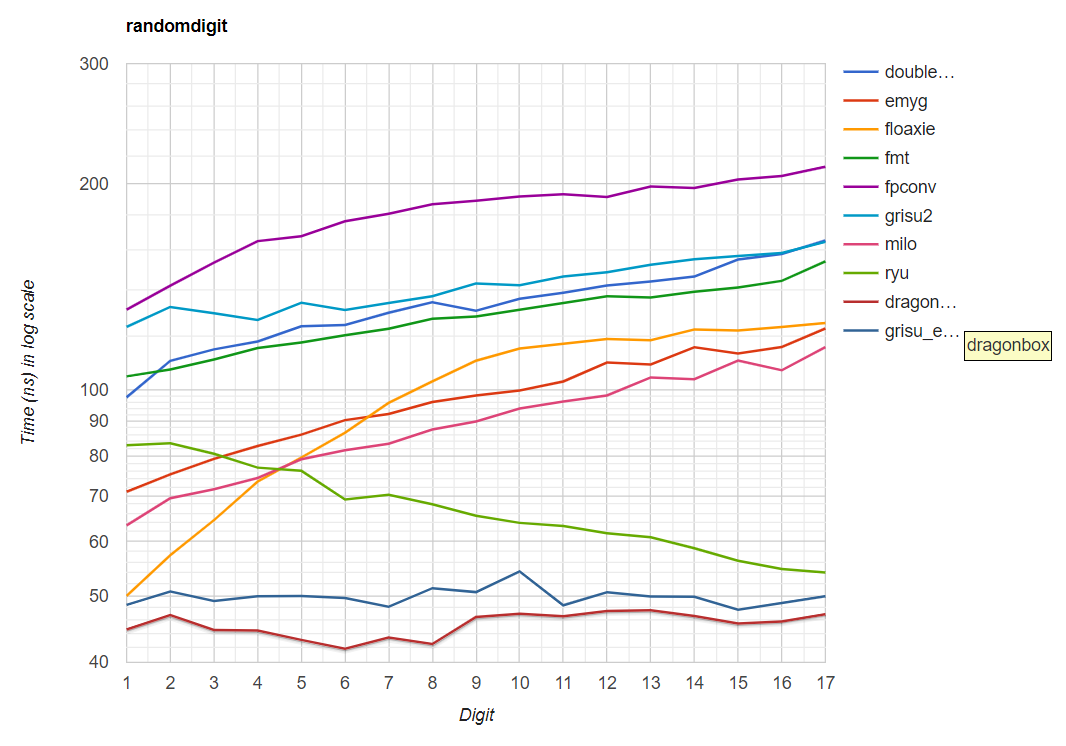
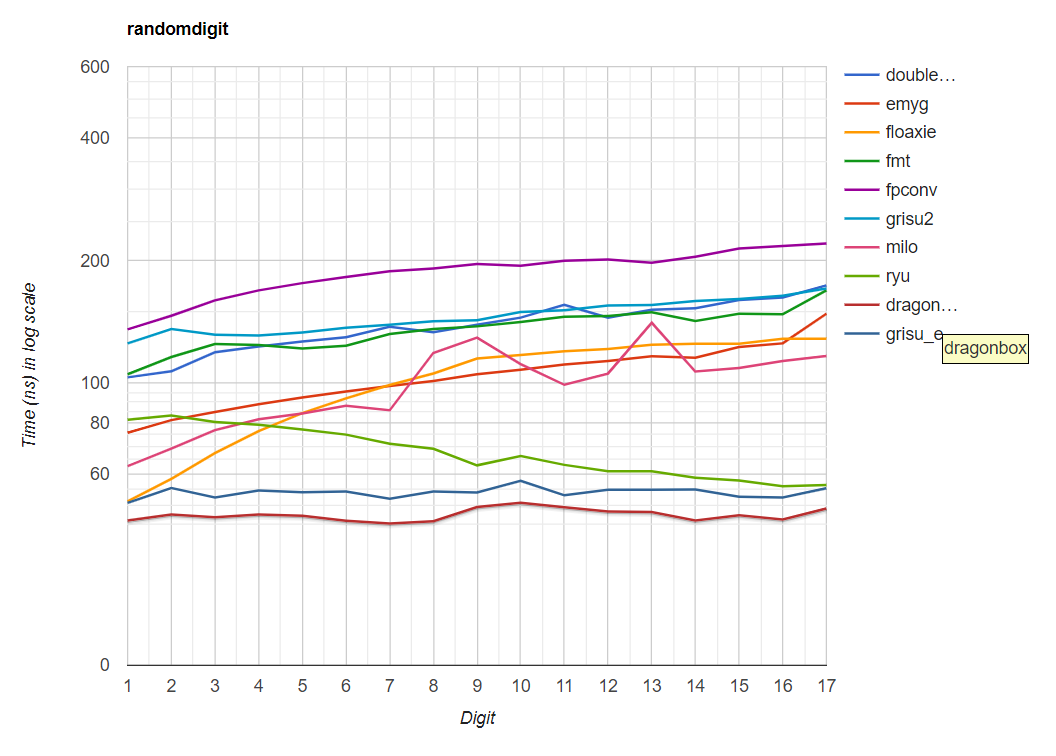
Update milo's benchmark result

diff --git a/other_files/unknown_win64_vc2019.html b/other_files/unknown_win64_vc2019.html
@@ -324,177 +324,177 @@ body { padding-top: 70px; }
 <div id="main"></div>
 <h2>Source CSV</h2>
 <textarea id="textInput" class="form-control" rows="5" readonly>
-  Type,Function,Digit,Time(ns)
-randomdigit,doubleconv,1,97.494000
-randomdigit,doubleconv,2,110.210000
-randomdigit,doubleconv,3,114.562000
-randomdigit,doubleconv,4,117.663000
-randomdigit,doubleconv,5,123.807000
-randomdigit,doubleconv,6,124.341000
-randomdigit,doubleconv,7,129.636000
-randomdigit,doubleconv,8,134.309000
-randomdigit,doubleconv,9,130.529000
-randomdigit,doubleconv,10,135.840000
-randomdigit,doubleconv,11,138.652000
-randomdigit,doubleconv,12,142.069000
-randomdigit,doubleconv,13,144.012000
-randomdigit,doubleconv,14,146.393000
-randomdigit,doubleconv,15,155.035000
-randomdigit,doubleconv,16,157.975000
-randomdigit,doubleconv,17,165.340000
-randomdigit,emyg,1,70.927000
-randomdigit,emyg,2,75.192000
-randomdigit,emyg,3,79.235000
-randomdigit,emyg,4,82.754000
-randomdigit,emyg,5,85.958000
-randomdigit,emyg,6,90.278000
-randomdigit,emyg,7,92.161000
-randomdigit,emyg,8,95.947000
-randomdigit,emyg,9,98.055000
-randomdigit,emyg,10,99.778000
-randomdigit,emyg,11,102.822000
-randomdigit,emyg,12,109.580000
-randomdigit,emyg,13,108.874000
-randomdigit,emyg,14,115.396000
-randomdigit,emyg,15,112.998000
-randomdigit,emyg,16,115.458000
-randomdigit,emyg,17,122.921000
-randomdigit,floaxie,1,49.950000
-randomdigit,floaxie,2,57.256000
-randomdigit,floaxie,3,64.458000
-randomdigit,floaxie,4,73.418000
-randomdigit,floaxie,5,79.588000
-randomdigit,floaxie,6,86.504000
-randomdigit,floaxie,7,95.701000
-randomdigit,floaxie,8,102.846000
-randomdigit,floaxie,9,110.265000
-randomdigit,floaxie,10,114.875000
-randomdigit,floaxie,11,116.777000
-randomdigit,floaxie,12,118.599000
-randomdigit,floaxie,13,118.119000
-randomdigit,floaxie,14,122.545000
-randomdigit,floaxie,15,122.094000
-randomdigit,floaxie,16,123.537000
-randomdigit,floaxie,17,125.195000
-randomdigit,fmt,1,104.612000
-randomdigit,fmt,2,107.054000
-randomdigit,fmt,3,110.722000
-randomdigit,fmt,4,115.064000
-randomdigit,fmt,5,117.277000
-randomdigit,fmt,6,120.167000
-randomdigit,fmt,7,122.801000
-randomdigit,fmt,8,127.058000
-randomdigit,fmt,9,127.984000
-randomdigit,fmt,10,130.914000
-randomdigit,fmt,11,133.974000
-randomdigit,fmt,12,137.035000
-randomdigit,fmt,13,136.457000
-randomdigit,fmt,14,139.140000
-randomdigit,fmt,15,141.123000
-randomdigit,fmt,16,144.309000
-randomdigit,fmt,17,154.136000
-randomdigit,fpconv,1,130.945000
-randomdigit,fpconv,2,141.982000
-randomdigit,fpconv,3,153.439000
-randomdigit,fpconv,4,164.992000
-randomdigit,fpconv,5,167.749000
-randomdigit,fpconv,6,176.434000
-randomdigit,fpconv,7,180.875000
-randomdigit,fpconv,8,186.855000
-randomdigit,fpconv,9,188.964000
-randomdigit,fpconv,10,191.686000
-randomdigit,fpconv,11,193.231000
-randomdigit,fpconv,12,191.479000
-randomdigit,fpconv,13,198.370000
-randomdigit,fpconv,14,197.300000
-randomdigit,fpconv,15,203.054000
-randomdigit,fpconv,16,205.376000
-randomdigit,fpconv,17,211.967000
-randomdigit,grisu2,1,123.626000
-randomdigit,grisu2,2,132.165000
-randomdigit,grisu2,3,129.426000
-randomdigit,grisu2,4,126.515000
-randomdigit,grisu2,5,134.016000
-randomdigit,grisu2,6,130.835000
-randomdigit,grisu2,7,133.979000
-randomdigit,grisu2,8,137.066000
-randomdigit,grisu2,9,143.085000
-randomdigit,grisu2,10,142.198000
-randomdigit,grisu2,11,146.487000
-randomdigit,grisu2,12,148.584000
-randomdigit,grisu2,13,152.382000
-randomdigit,grisu2,14,155.231000
-randomdigit,grisu2,15,156.907000
-randomdigit,grisu2,16,158.553000
-randomdigit,grisu2,17,164.559000
-randomdigit,milo,1,63.323000
-randomdigit,milo,2,69.397000
-randomdigit,milo,3,71.500000
-randomdigit,milo,4,74.282000
-randomdigit,milo,5,79.116000
-randomdigit,milo,6,81.582000
-randomdigit,milo,7,83.394000
-randomdigit,milo,8,87.453000
-randomdigit,milo,9,89.842000
-randomdigit,milo,10,93.867000
-randomdigit,milo,11,96.106000
-randomdigit,milo,12,98.086000
-randomdigit,milo,13,104.250000
-randomdigit,milo,14,103.613000
-randomdigit,milo,15,110.340000
-randomdigit,milo,16,106.778000
-randomdigit,milo,17,115.444000
-randomdigit,ryu,1,82.916000
-randomdigit,ryu,2,83.528000
-randomdigit,ryu,3,80.620000
-randomdigit,ryu,4,76.928000
-randomdigit,ryu,5,76.149000
-randomdigit,ryu,6,69.093000
-randomdigit,ryu,7,70.198000
-randomdigit,ryu,8,67.999000
-randomdigit,ryu,9,65.430000
-randomdigit,ryu,10,63.864000
-randomdigit,ryu,11,63.182000
-randomdigit,ryu,12,61.663000
-randomdigit,ryu,13,60.843000
-randomdigit,ryu,14,58.620000
-randomdigit,ryu,15,56.211000
-randomdigit,ryu,16,54.675000
-randomdigit,ryu,17,54.028000
-randomdigit,dragonbox,1,44.598000
-randomdigit,dragonbox,2,46.794000
-randomdigit,dragonbox,3,44.517000
-randomdigit,dragonbox,4,44.434000
-randomdigit,dragonbox,5,43.056000
-randomdigit,dragonbox,6,41.794000
-randomdigit,dragonbox,7,43.395000
-randomdigit,dragonbox,8,42.458000
-randomdigit,dragonbox,9,46.518000
-randomdigit,dragonbox,10,47.018000
-randomdigit,dragonbox,11,46.623000
-randomdigit,dragonbox,12,47.441000
-randomdigit,dragonbox,13,47.573000
-randomdigit,dragonbox,14,46.674000
-randomdigit,dragonbox,15,45.490000
-randomdigit,dragonbox,16,45.826000
-randomdigit,dragonbox,17,46.956000
-randomdigit,grisu_exact,1,48.452000
-randomdigit,grisu_exact,2,50.658000
-randomdigit,grisu_exact,3,49.090000
-randomdigit,grisu_exact,4,49.892000
-randomdigit,grisu_exact,5,49.932000
-randomdigit,grisu_exact,6,49.587000
-randomdigit,grisu_exact,7,48.139000
-randomdigit,grisu_exact,8,51.245000
-randomdigit,grisu_exact,9,50.576000
-randomdigit,grisu_exact,10,54.229000
-randomdigit,grisu_exact,11,48.381000
-randomdigit,grisu_exact,12,50.568000
-randomdigit,grisu_exact,13,49.824000
-randomdigit,grisu_exact,14,49.773000
-randomdigit,grisu_exact,15,47.655000
-randomdigit,grisu_exact,16,48.738000
-randomdigit,grisu_exact,17,49.884000
+Type,Function,Digit,Time(ns)
+randomdigit,doubleconv,1,103.422000
+randomdigit,doubleconv,2,107.019000
+randomdigit,doubleconv,3,119.302000
+randomdigit,doubleconv,4,123.201000
+randomdigit,doubleconv,5,126.719000
+randomdigit,doubleconv,6,129.759000
+randomdigit,doubleconv,7,137.666000
+randomdigit,doubleconv,8,133.465000
+randomdigit,doubleconv,9,139.259000
+randomdigit,doubleconv,10,145.012000
+randomdigit,doubleconv,11,155.953000
+randomdigit,doubleconv,12,145.050000
+randomdigit,doubleconv,13,151.716000
+randomdigit,doubleconv,14,152.975000
+randomdigit,doubleconv,15,160.155000
+randomdigit,doubleconv,16,162.404000
+randomdigit,doubleconv,17,174.070000
+randomdigit,emyg,1,75.612000
+randomdigit,emyg,2,81.201000
+randomdigit,emyg,3,84.996000
+randomdigit,emyg,4,88.791000
+randomdigit,emyg,5,92.296000
+randomdigit,emyg,6,95.445000
+randomdigit,emyg,7,98.512000
+randomdigit,emyg,8,101.385000
+randomdigit,emyg,9,105.228000
+randomdigit,emyg,10,108.044000
+randomdigit,emyg,11,111.275000
+randomdigit,emyg,12,113.399000
+randomdigit,emyg,13,116.570000
+randomdigit,emyg,14,115.547000
+randomdigit,emyg,15,122.869000
+randomdigit,emyg,16,125.364000
+randomdigit,emyg,17,148.200000
+randomdigit,floaxie,1,51.302000
+randomdigit,floaxie,2,58.274000
+randomdigit,floaxie,3,67.401000
+randomdigit,floaxie,4,76.321000
+randomdigit,floaxie,5,84.472000
+randomdigit,floaxie,6,91.869000
+randomdigit,floaxie,7,99.066000
+randomdigit,floaxie,8,105.707000
+randomdigit,floaxie,9,115.071000
+randomdigit,floaxie,10,117.430000
+randomdigit,floaxie,11,119.936000
+randomdigit,floaxie,12,121.423000
+randomdigit,floaxie,13,124.391000
+randomdigit,floaxie,14,125.128000
+randomdigit,floaxie,15,125.072000
+randomdigit,floaxie,16,128.710000
+randomdigit,floaxie,17,128.626000
+randomdigit,fmt,1,105.266000
+randomdigit,fmt,2,116.047000
+randomdigit,fmt,3,124.841000
+randomdigit,fmt,4,124.258000
+randomdigit,fmt,5,121.815000
+randomdigit,fmt,6,123.681000
+randomdigit,fmt,7,132.253000
+randomdigit,fmt,8,136.010000
+randomdigit,fmt,9,138.022000
+randomdigit,fmt,10,141.509000
+randomdigit,fmt,11,145.660000
+randomdigit,fmt,12,146.429000
+randomdigit,fmt,13,149.514000
+randomdigit,fmt,14,142.326000
+randomdigit,fmt,15,148.343000
+randomdigit,fmt,16,147.771000
+randomdigit,fmt,17,169.117000
+randomdigit,fpconv,1,135.685000
+randomdigit,fpconv,2,146.550000
+randomdigit,fpconv,3,159.927000
+randomdigit,fpconv,4,169.214000
+randomdigit,fpconv,5,176.296000
+randomdigit,fpconv,6,182.490000
+randomdigit,fpconv,7,188.653000
+randomdigit,fpconv,8,191.473000
+randomdigit,fpconv,9,196.434000
+randomdigit,fpconv,10,194.403000
+randomdigit,fpconv,11,199.955000
+randomdigit,fpconv,12,201.495000
+randomdigit,fpconv,13,197.954000
+randomdigit,fpconv,14,204.596000
+randomdigit,fpconv,15,214.376000
+randomdigit,fpconv,16,217.430000
+randomdigit,fpconv,17,220.440000
+randomdigit,grisu2,1,125.406000
+randomdigit,grisu2,2,136.002000
+randomdigit,grisu2,3,131.690000
+randomdigit,grisu2,4,131.078000
+randomdigit,grisu2,5,133.324000
+randomdigit,grisu2,6,136.897000
+randomdigit,grisu2,7,139.207000
+randomdigit,grisu2,8,142.139000
+randomdigit,grisu2,9,142.853000
+randomdigit,grisu2,10,149.807000
+randomdigit,grisu2,11,151.105000
+randomdigit,grisu2,12,155.232000
+randomdigit,grisu2,13,155.774000
+randomdigit,grisu2,14,159.399000
+randomdigit,grisu2,15,161.156000
+randomdigit,grisu2,16,164.061000
+randomdigit,grisu2,17,170.995000
+randomdigit,milo,1,62.613000
+randomdigit,milo,2,69.110000
+randomdigit,milo,3,76.748000
+randomdigit,milo,4,81.638000
+randomdigit,milo,5,84.303000
+randomdigit,milo,6,88.055000
+randomdigit,milo,7,85.880000
+randomdigit,milo,8,118.707000
+randomdigit,milo,9,129.551000
+randomdigit,milo,10,111.460000
+randomdigit,milo,11,99.181000
+randomdigit,milo,12,105.637000
+randomdigit,milo,13,140.935000
+randomdigit,milo,14,106.934000
+randomdigit,milo,15,109.047000
+randomdigit,milo,16,113.420000
+randomdigit,milo,17,116.652000
+randomdigit,ryu,1,81.360000
+randomdigit,ryu,2,83.371000
+randomdigit,ryu,3,80.398000
+randomdigit,ryu,4,79.152000
+randomdigit,ryu,5,77.026000
+randomdigit,ryu,6,74.817000
+randomdigit,ryu,7,71.081000
+randomdigit,ryu,8,69.037000
+randomdigit,ryu,9,62.880000
+randomdigit,ryu,10,66.318000
+randomdigit,ryu,11,63.049000
+randomdigit,ryu,12,60.845000
+randomdigit,ryu,13,60.772000
+randomdigit,ryu,14,58.598000
+randomdigit,ryu,15,57.695000
+randomdigit,ryu,16,55.896000
+randomdigit,ryu,17,56.271000
+randomdigit,dragonbox,1,46.012000
+randomdigit,dragonbox,2,47.638000
+randomdigit,dragonbox,3,46.859000
+randomdigit,dragonbox,4,47.580000
+randomdigit,dragonbox,5,47.257000
+randomdigit,dragonbox,6,45.949000
+randomdigit,dragonbox,7,45.222000
+randomdigit,dragonbox,8,45.855000
+randomdigit,dragonbox,9,49.689000
+randomdigit,dragonbox,10,50.884000
+randomdigit,dragonbox,11,49.594000
+randomdigit,dragonbox,12,48.426000
+randomdigit,dragonbox,13,48.294000
+randomdigit,dragonbox,14,46.039000
+randomdigit,dragonbox,15,47.395000
+randomdigit,dragonbox,16,46.293000
+randomdigit,dragonbox,17,49.234000
+randomdigit,grisu_exact,1,50.867000
+randomdigit,grisu_exact,2,55.277000
+randomdigit,grisu_exact,3,52.392000
+randomdigit,grisu_exact,4,54.517000
+randomdigit,grisu_exact,5,54.037000
+randomdigit,grisu_exact,6,54.194000
+randomdigit,grisu_exact,7,52.027000
+randomdigit,grisu_exact,8,54.234000
+randomdigit,grisu_exact,9,53.911000
+randomdigit,grisu_exact,10,57.632000
+randomdigit,grisu_exact,11,53.070000
+randomdigit,grisu_exact,12,54.807000
+randomdigit,grisu_exact,13,54.739000
+randomdigit,grisu_exact,14,54.875000
+randomdigit,grisu_exact,15,52.611000
+randomdigit,grisu_exact,16,52.384000
+randomdigit,grisu_exact,17,55.250000
 </textarea>
 </div>
 <div class="row" id="downloadDD" style="display: none">
